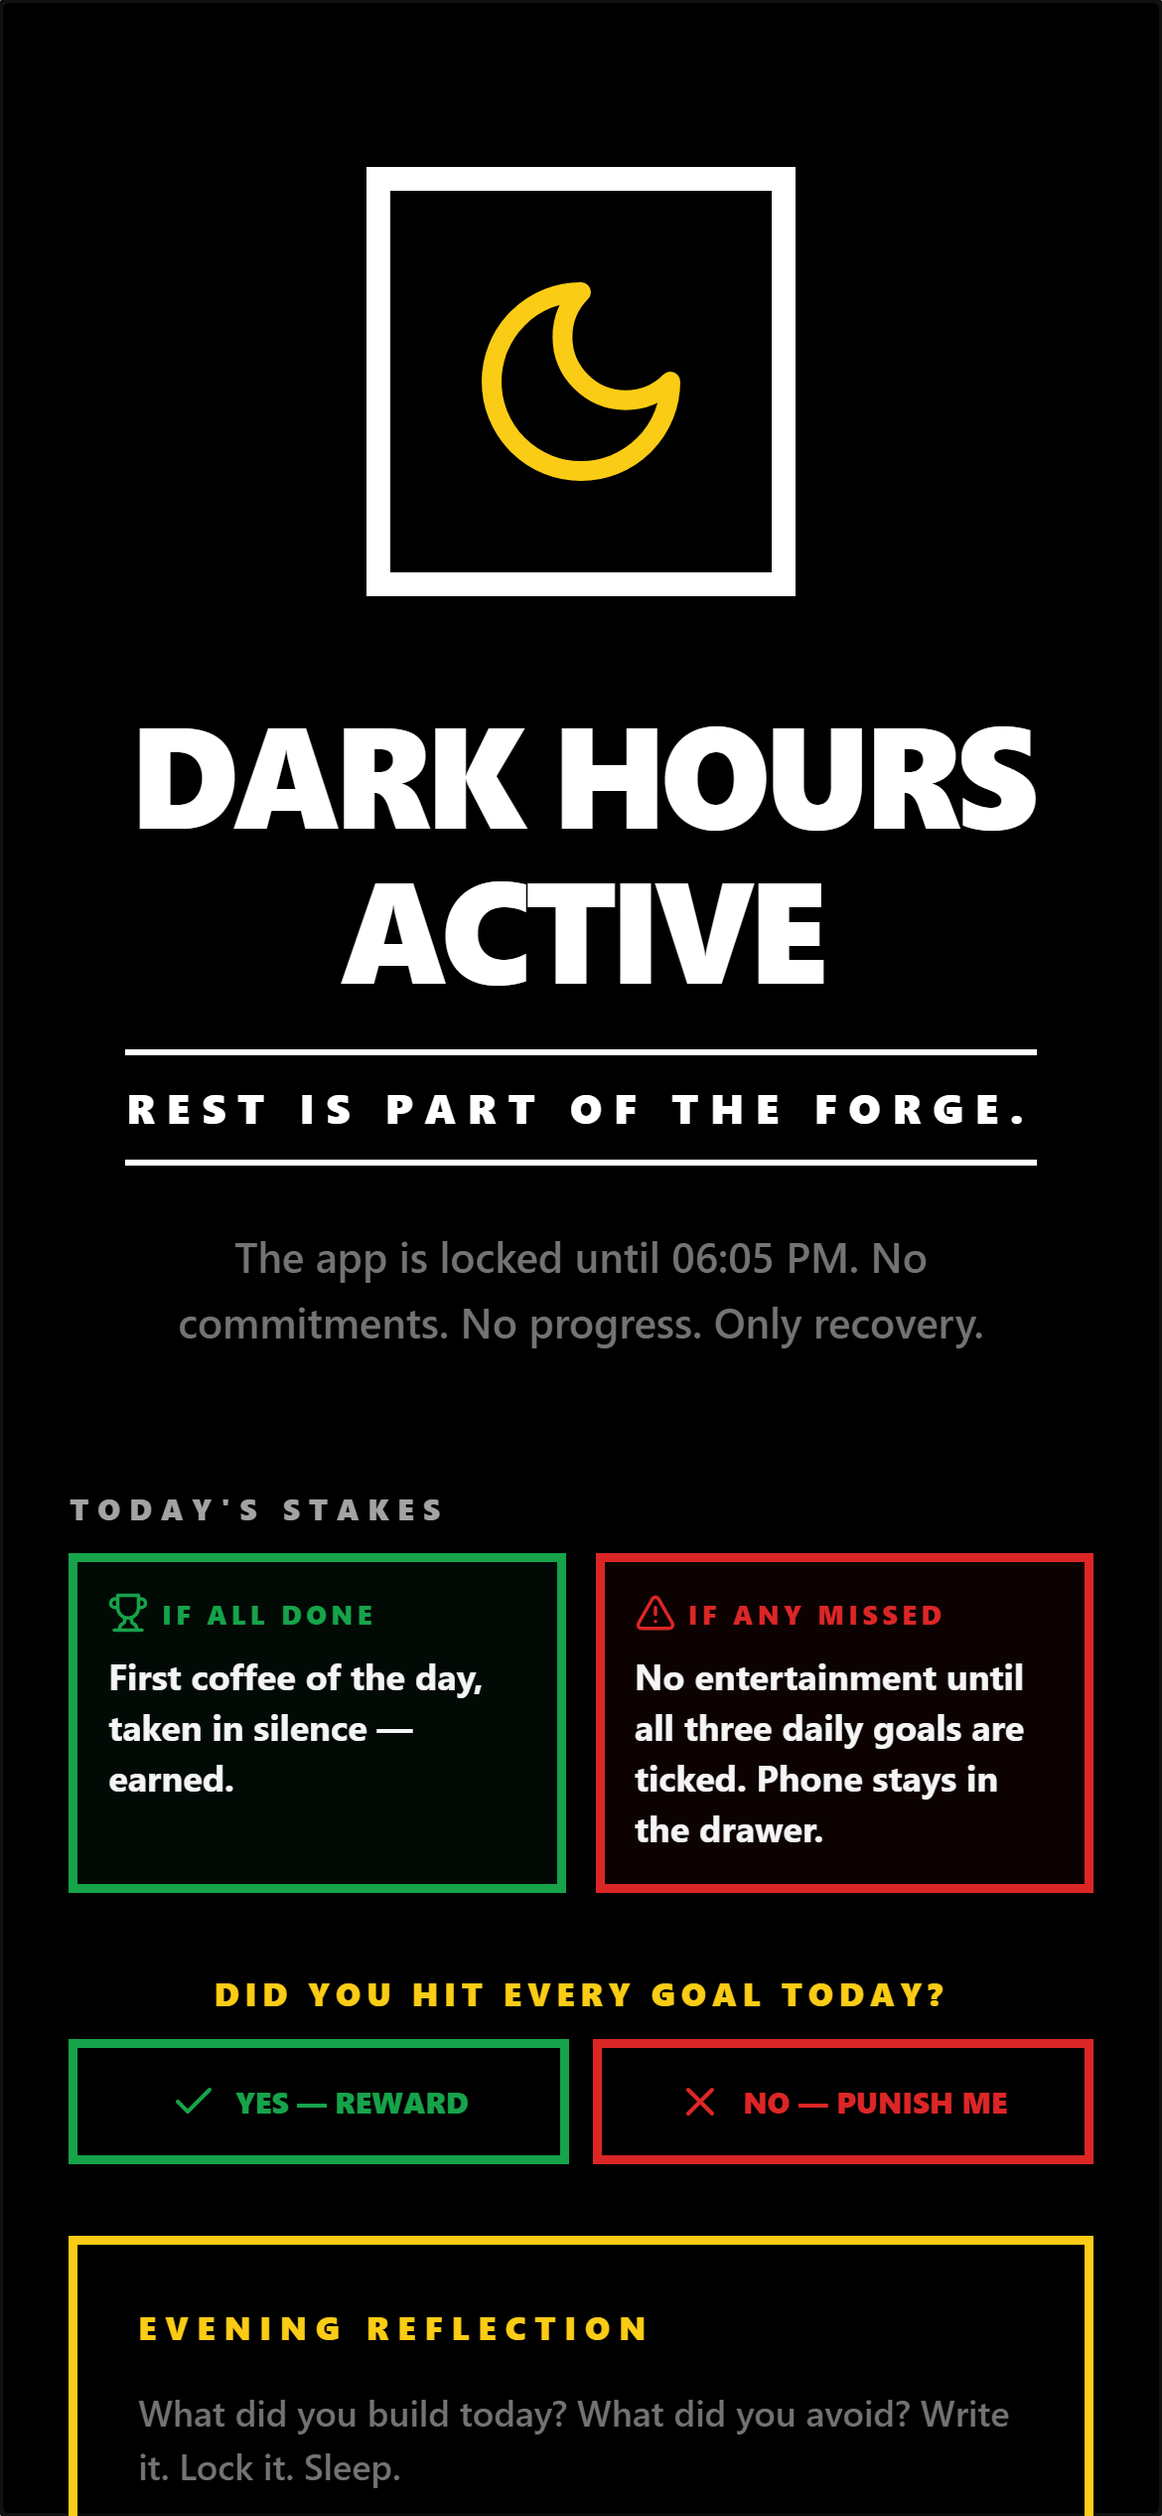
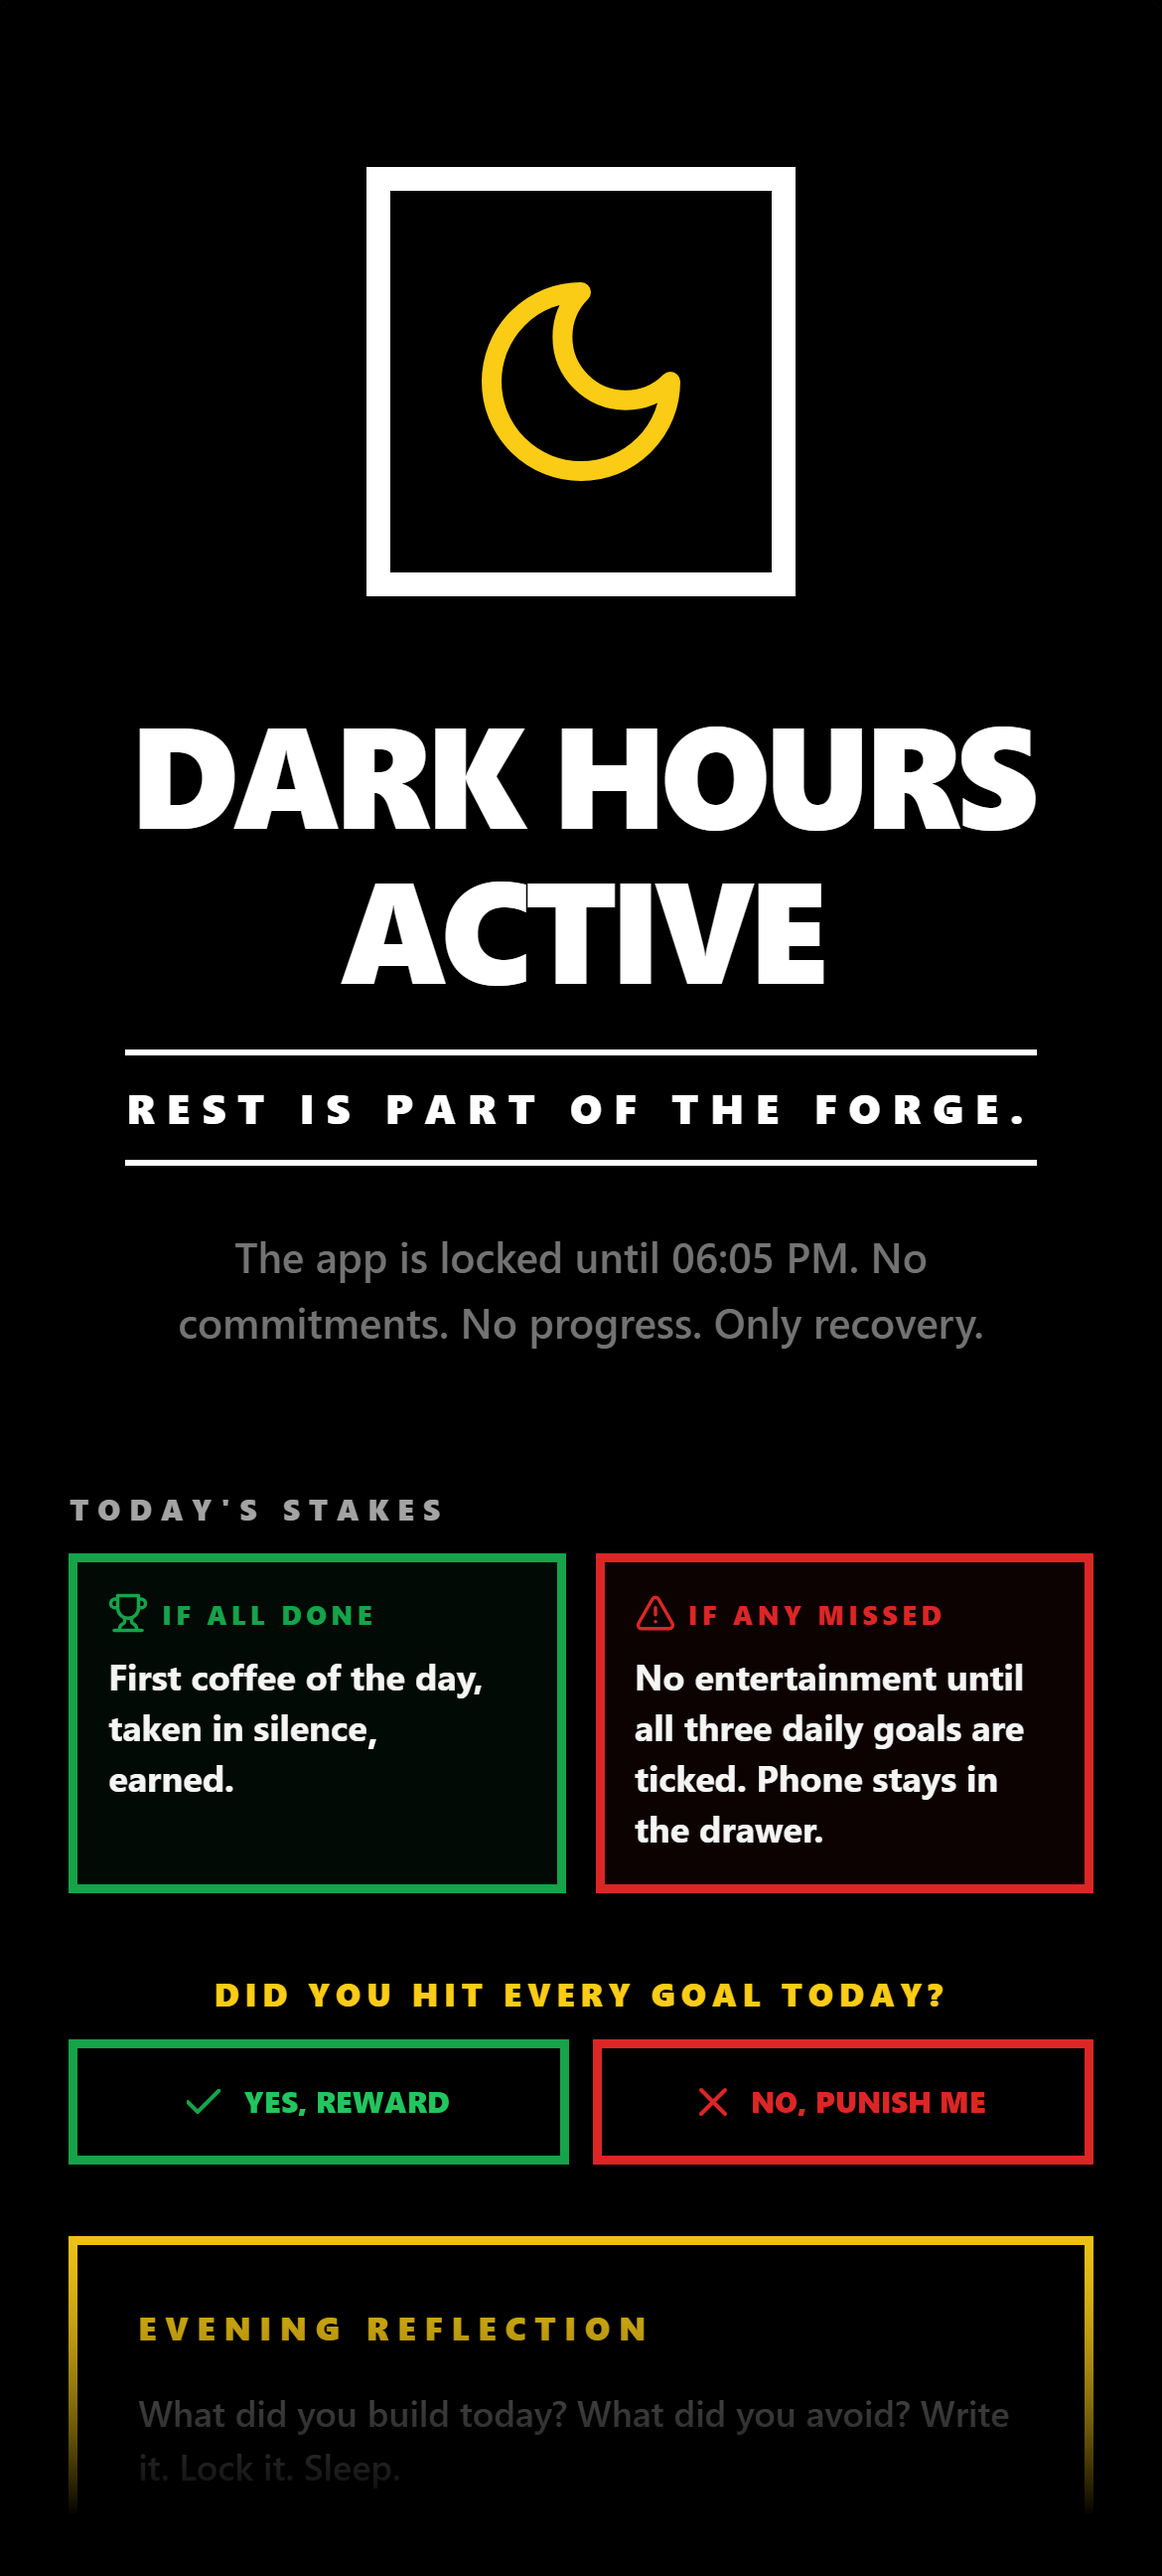
Phone bezels and screenshots match the shipping app

Changed region(s): [[0.0615, 0.5616, 0.9538, 1.0], [0.0923, 0.2808, 0.8923, 0.5304], [0.3077, 0.0624, 0.6769, 0.2496]]

diff --git a/styles.css b/styles.css
@@ -125,8 +125,7 @@ a { color: inherit; text-decoration: none; }
 
 /* Hero phone, actual app screenshot in a device frame */
 .hero-phone-wrap { display: flex; justify-content: center; }
-.hero-device { max-width: 300px; }
-.hero-device img { box-shadow: 0 0 80px rgba(245,158,11,.20), 0 24px 70px rgba(0,0,0,.5); }
+.hero-device { max-width: 300px; --glow: rgba(0,0,0,.5); --halo: rgba(245,158,11,.20); }
 .phone {
   width: 252px; background: #000; border: 8px solid #1c1c1c; border-radius: 36px;
   padding: 13px 12px 14px; box-shadow: 0 0 80px rgba(245,158,11,.20);
@@ -197,11 +196,33 @@ a { color: inherit; text-decoration: none; }
           mask-image: radial-gradient(circle at 50% 50%, #000 40%, rgba(0,0,0,.55) 58%, transparent 72%);
 }
 
-/* ── iPhone device frame (real screenshots) ──────────────── */
-.device { position: relative; max-width: 290px; width: 100%; margin: 0 auto; }
-.device img { width: 100%; display: block; border: 9px solid #1a1a1a; border-radius: 38px; background: #1a1a1a; box-shadow: 0 24px 70px rgba(0,0,0,.5); transition: transform .2s; }
-.device:hover img { transform: translateY(-4px); }
-.device .notch { position: absolute; top: 9px; left: 50%; transform: translateX(-50%); width: 34%; height: 20px; background: #1a1a1a; border-radius: 0 0 14px 14px; z-index: 2; }
+/* ── iPhone device frame (real screenshots) ──────────────────
+   The bezel is the wrapper, not a border on the <img>. A thick border on a
+   rounded image clips the picture to a smaller inner radius and leaves the
+   bezel and the screen with corners that do not agree, which is what read
+   as a rough cut-out. Here the bezel's inner radius is its outer radius
+   minus its padding, so screen and frame share one curve. */
+.device {
+  --glow: rgba(0,0,0,.5);
+  --halo: rgba(0,0,0,0);
+  position: relative; max-width: 290px; width: 100%; margin: 0 auto;
+  padding: 10px;
+  border-radius: 48px;
+  background: linear-gradient(150deg, #2b2b2b 0%, #141414 45%, #0b0b0b 100%);
+  box-shadow:
+    0 0 0 1px rgba(255,255,255,.07),
+    inset 0 0 0 1px rgba(255,255,255,.05),
+    0 0 80px var(--halo),
+    0 24px 70px var(--glow);
+  transition: transform .25s ease;
+}
+.device img { width: 100%; display: block; border-radius: 38px; background: #000; }
+.device:hover { transform: translateY(-4px); }
+.device .notch {
+  position: absolute; top: 19px; left: 50%; transform: translateX(-50%);
+  width: 30%; height: 22px; background: #000; border-radius: 999px; z-index: 2;
+}
+@media (prefers-reduced-motion: reduce) { .device, .device:hover { transition: none; transform: none; } }
 .device figcaption { margin-top: 16px; text-align: center; font-size: 12px; letter-spacing: 1.5px; color: var(--muted); text-transform: uppercase; font-weight: 600; }
 .device-row { display: grid; grid-template-columns: repeat(3, 1fr); gap: 28px; align-items: start; }
 

diff --git a/index.html b/index.html
@@ -112,7 +112,7 @@
           <p>Pick a task. Start the block. The apps you chose go dark. Try to open one and The Forge snaps you straight back to the timer. The only ways out are finish and prove it, or abort and fail.</p>
         </div>
         <div class="showcase-img reveal">
-          <div class="device" style="box-shadow:0 24px 70px rgba(216,90,48,.24)">
+          <div class="device" style="--glow:rgba(216,90,48,.24)">
             <span class="notch" aria-hidden="true"></span>
             <img src="assets/screens/focus.png" alt="The Forge, Deep Focus locked screen with the session timer" loading="lazy" />
           </div>
@@ -130,7 +130,7 @@
           <p>Set your window once. When night falls the whole app locks. No tasks, no scroll, no progress. Log one honest reflection, then sleep. Burnout is the enemy; the system protects you from it.</p>
         </div>
         <div class="showcase-img reveal">
-          <div class="device" style="box-shadow:0 24px 70px rgba(53,138,221,.24)">
+          <div class="device" style="--glow:rgba(53,138,221,.24)">
             <span class="notch" aria-hidden="true"></span>
             <img src="assets/screens/dark-hours.png" alt="The Forge, Dark Hours active lock screen" loading="lazy" />
           </div>
